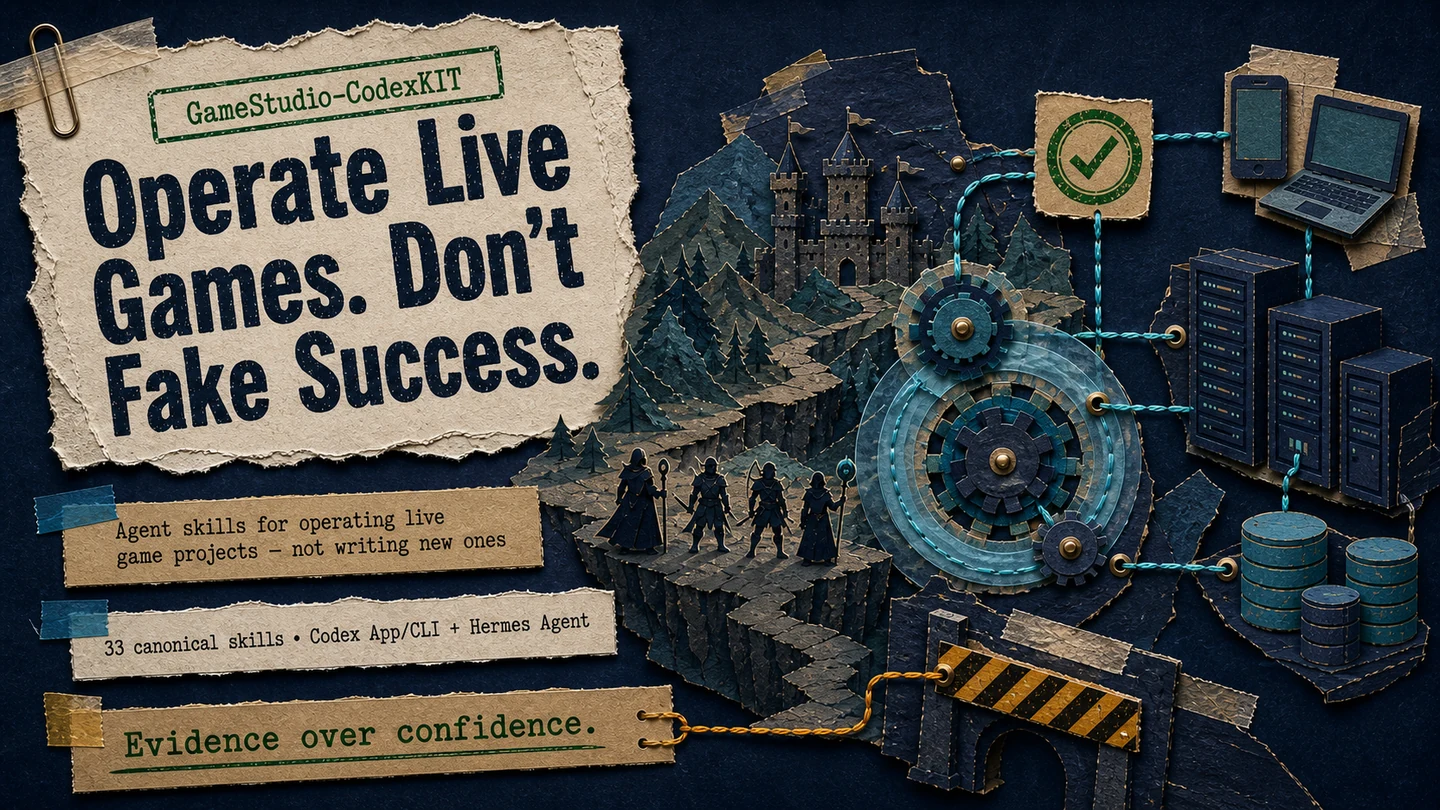
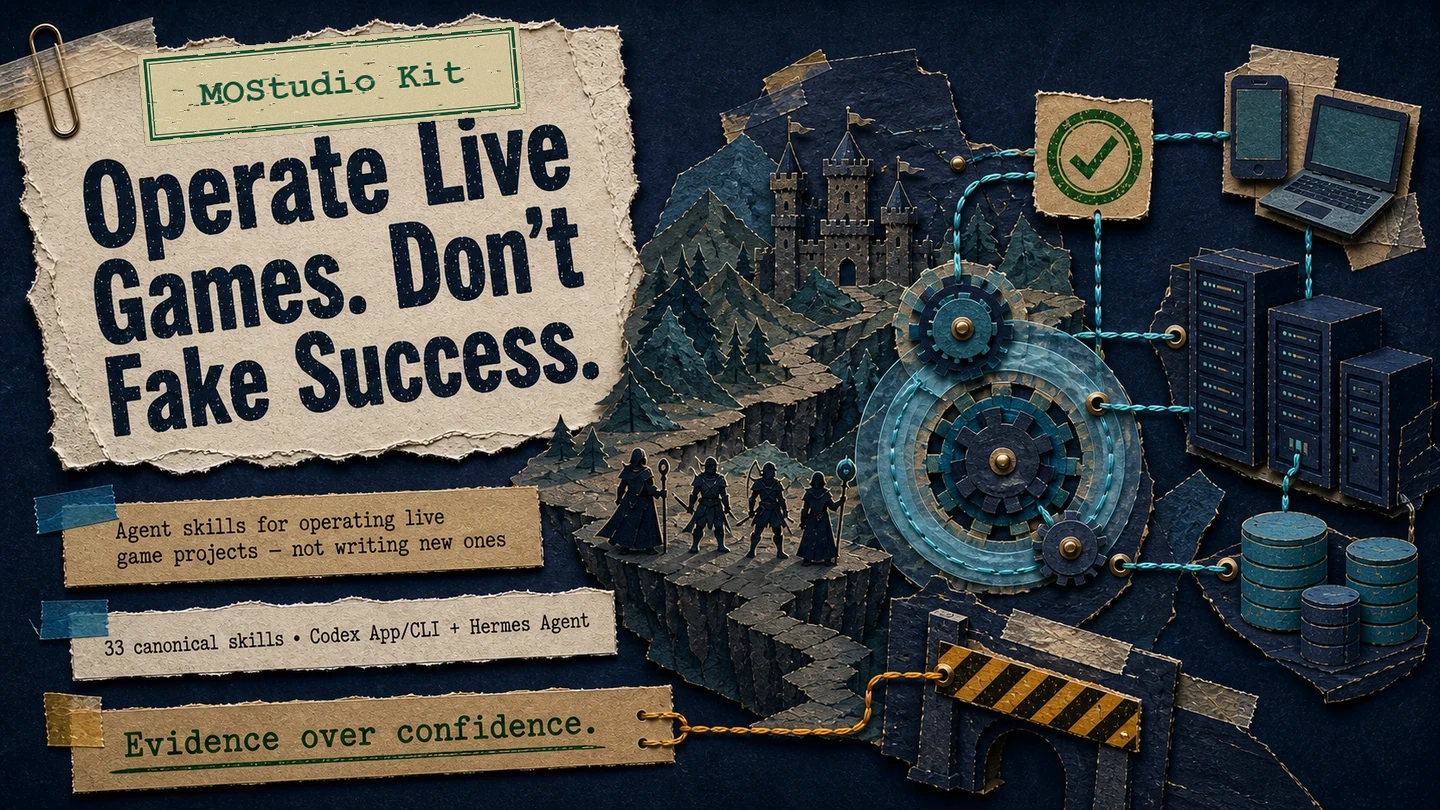
Rename display name to MOStudio Kit, bump version
Change the user-facing display name from "GameStudio Codex Kit" to "MOStudio Kit" across plugin metadata, README, website, docs, and SVG/banner assets. Add a naming contract clarifying the repository and plugin ID remain stable (GameStudio-CodexKIT / game-studio-codex-kit). Bump package/plugin version to 1.5.2 in .codex-plugin/plugin.json and pyproject.toml. Update marketplace.json, landing page image, and tests/fixtures to expect the new display strings. Binary showcase slide updated. Tests adjusted to assert new title/displayName and version.

Changed region(s): [[0.0938, 0.0309, 0.375, 0.1852]]

diff --git a/docs/index.html b/docs/index.html
@@ -4,22 +4,22 @@
   <meta charset="utf-8">
   <meta name="viewport" content="width=device-width, initial-scale=1">
   <meta name="theme-color" content="#08111f">
-  <meta name="description" content="GameStudio-CodexKIT — evidence-first agent skills for operating live Unity, C++, Lua, MMORPG, release, and liveops projects.">
+  <meta name="description" content="MOStudio Kit — evidence-first agent skills for operating live Unity, C++, Lua, MMORPG, release, and liveops projects.">
   <meta property="og:type" content="website">
-  <meta property="og:title" content="GameStudio-CodexKIT — Operate live games">
+  <meta property="og:title" content="MOStudio Kit — Operate live games">
   <meta property="og:description" content="A routed skill catalog for fragile, shipped, revenue-bearing game projects. Evidence over confidence.">
   <meta property="og:url" content="https://hoatv2211.github.io/GameStudio-CodexKIT/">
   <meta property="og:image" content="https://hoatv2211.github.io/GameStudio-CodexKIT/assets/showcase-handcrafted/slide-01.webp">
   <meta property="og:image:type" content="image/webp">
   <meta property="og:image:width" content="1440">
   <meta property="og:image:height" content="810">
-  <meta property="og:image:alt" content="GameStudio-CodexKIT connects live game projects to specialist workflows and evidence-backed results.">
+  <meta property="og:image:alt" content="MOStudio Kit connects live game projects to specialist workflows and evidence-backed results.">
   <meta name="twitter:card" content="summary_large_image">
   <meta name="twitter:image" content="https://hoatv2211.github.io/GameStudio-CodexKIT/assets/showcase-handcrafted/slide-01.webp">
-  <meta name="twitter:image:alt" content="GameStudio-CodexKIT connects live game projects to specialist workflows and evidence-backed results.">
+  <meta name="twitter:image:alt" content="MOStudio Kit connects live game projects to specialist workflows and evidence-backed results.">
   <link rel="canonical" href="https://hoatv2211.github.io/GameStudio-CodexKIT/">
   <link rel="icon" href="assets/banner.svg" type="image/svg+xml">
-  <title>GameStudio-CodexKIT · Operate live games</title>
+  <title>MOStudio Kit · Operate live games</title>
   <style>
     :root {
       --bg: #08111f;
@@ -358,11 +358,11 @@
   <a class="skip-link" href="#main">Skip to content</a>
   <header class="site-header">
     <div class="container nav" id="nav">
-      <a class="brand" href="#top" aria-label="GameStudio-CodexKIT home">
+      <a class="brand" href="#top" aria-label="MOStudio Kit home">
         <span class="brand-mark" aria-hidden="true">
           <svg viewBox="0 0 24 24" width="20" height="20" fill="none"><path d="M5 8.2 12 4l7 4.2v7.6L12 20l-7-4.2V8.2Z" stroke="currentColor" stroke-width="1.35"/><path d="M12 4v16M5 8.2l7 4.1 7-4.1" stroke="currentColor" stroke-width="1.1" opacity=".55"/></svg>
         </span>
-        <span class="brand-name">GameStudio<span class="brand-dim">-CodexKIT</span></span>
+        <span class="brand-name">MOStudio<span class="brand-dim"> Kit</span></span>
       </a>
       <nav class="nav-links" aria-label="Primary navigation">
         <a href="#lifecycle">Lifecycle</a>
@@ -384,7 +384,7 @@
         <div class="reveal">
           <span class="eyebrow">Open-source game operations kit</span>
           <h1>Keep shipped games <span class="accent">alive.</span></h1>
-          <p class="hero-lede">GameStudio-CodexKIT gives Codex and Hermes an evidence-first operating layer for <strong>fragile, live, revenue-bearing game projects</strong> — from Unity clients and C++ servers to Lua contracts, player saves, release gates, and liveops incidents.</p>
+          <p class="hero-lede">MOStudio Kit gives Codex and Hermes an evidence-first operating layer for <strong>fragile, live, revenue-bearing game projects</strong> — from Unity clients and C++ servers to Lua contracts, player saves, release gates, and liveops incidents.</p>
           <div class="hero-actions">
             <a class="button button-primary" href="#install">Install the kit <span aria-hidden="true">↓</span></a>
             <a class="button" href="#catalog">Explore 47 skills <span aria-hidden="true">→</span></a>
@@ -550,7 +550,7 @@
     <section class="section install-section" id="install">
       <div class="container">
         <div class="install-panel reveal">
-          <div><span class="eyebrow">Start with one command</span><h2>Install once.<br>Ask for the outcome.</h2><p>Choose your primary runtime, start a new session, and describe the studio problem directly.</p></div>
+          <div><span class="eyebrow">Start with one command</span><h2>Install once.<br>Ask for the outcome.</h2><p>Choose your primary runtime, install MOStudio Kit from the stable <code>GameStudio-CodexKIT</code> repository, and describe the studio problem directly.</p></div>
           <div class="commands">
             <div class="command"><span class="command-label">Hermes</span><code>npx skills add hoatv2211/GameStudio-CodexKIT -a hermes-agent -g -y</code><button class="copy-button" type="button" aria-label="Copy Hermes install command" data-copy="npx skills add hoatv2211/GameStudio-CodexKIT -a hermes-agent -g -y">⧉</button></div>
             <div class="command"><span class="command-label">Codex</span><code>codex plugin marketplace add hoatv2211/GameStudio-CodexKIT</code><button class="copy-button" type="button" aria-label="Copy Codex install command" data-copy="codex plugin marketplace add hoatv2211/GameStudio-CodexKIT">⧉</button></div>
@@ -563,7 +563,7 @@
 
   <footer>
     <div class="container footer-inner">
-      <span>GameStudio-CodexKIT · MIT licensed · Evidence over confidence.</span>
+      <span>MOStudio Kit · MIT licensed · Evidence over confidence.</span>
       <nav class="footer-links" aria-label="Footer navigation"><a href="https://github.com/hoatv2211/GameStudio-CodexKIT" target="_blank" rel="noopener">Repository ↗</a><a href="https://github.com/hoatv2211/GameStudio-CodexKIT#readme">README</a><a href="https://github.com/hoatv2211/GameStudio-CodexKIT/blob/main/docs/architecture/overview.md">Architecture</a><a href="https://github.com/hoatv2211/GameStudio-CodexKIT/blob/main/docs/authoring/dogfood.md">Dogfood contract</a></nav>
     </div>
   </footer>

diff --git a/tests/packaging/test_codex_plugin.py b/tests/packaging/test_codex_plugin.py
@@ -32,6 +32,10 @@ class CodexPluginPackagingTests(unittest.TestCase):
         self.assertIn(f"{agent_count} AGENTS", banner)
         self.assertIn(f"{pack_count} PACKS", banner)
         self.assertIn(f"ROUTING {routing.passed}/{routing.total}", banner)
+        self.assertIn("MOStudio Kit", banner)
+        self.assertIn("<title>MOStudio Kit · Operate live games</title>", landing)
+        self.assertIn("# MOStudio Kit", readme)
+        self.assertIn("`GameStudio-CodexKIT` repository", readme)
         self.assertIn(f">{skill_count}</span><span class=\"stat-label\">canonical skills", landing)
         self.assertIn(f">{agent_count}</span><span class=\"stat-label\">canonical agents", landing)
         self.assertIn(f">{pack_count}</span><span class=\"stat-label\">installable packs", landing)
@@ -43,7 +47,7 @@ class CodexPluginPackagingTests(unittest.TestCase):
         manifest = json.loads(manifest_path.read_text(encoding="utf-8"))
 
         self.assertEqual(PLUGIN_NAME, manifest["name"])
-        self.assertEqual("1.5.1", manifest["version"])
+        self.assertEqual("1.5.2", manifest["version"])
         self.assertEqual("./skills/", manifest["skills"])
         self.assertEqual(REPOSITORY_URL.removesuffix(".git"), manifest["repository"])
         self.assertEqual("MIT", manifest["license"])
@@ -51,7 +55,7 @@ class CodexPluginPackagingTests(unittest.TestCase):
         self.assertTrue(manifest["author"]["name"])
 
         interface = manifest["interface"]
-        self.assertEqual("GameStudio Codex Kit", interface["displayName"])
+        self.assertEqual("MOStudio Kit", interface["displayName"])
         self.assertEqual("HoaTV Studio", interface["developerName"])
         self.assertLessEqual(len(interface["defaultPrompt"]), 3)
         for prompt in interface["defaultPrompt"]:
@@ -74,7 +78,7 @@ class CodexPluginPackagingTests(unittest.TestCase):
         marketplace = json.loads(marketplace_path.read_text(encoding="utf-8"))
 
         self.assertEqual(MARKETPLACE_NAME, marketplace["name"])
-        self.assertEqual("GameStudio Codex Kit", marketplace["interface"]["displayName"])
+        self.assertEqual("MOStudio Kit", marketplace["interface"]["displayName"])
         self.assertEqual(1, len(marketplace["plugins"]))
 
         entry = marketplace["plugins"][0]

diff --git a/tests/_meta/support.py b/tests/_meta/support.py
@@ -224,7 +224,7 @@ def write_plugin_package(root: Path) -> None:
                 "license": "MIT",
                 "skills": "./skills/",
                 "interface": {
-                    "displayName": "GameStudio Codex Kit",
+                    "displayName": "MOStudio Kit",
                     "developerName": "Fixture",
                     "category": "Productivity",
                 },

diff --git a/README.md b/README.md
@@ -1,10 +1,12 @@
 <p align="center">
-  <img src="docs/assets/banner.svg" alt="GameStudio-CodexKIT — Agent skills for operating live game projects" width="100%">
+  <img src="docs/assets/banner.svg" alt="MOStudio Kit — Agent skills for operating live game projects" width="100%">
 </p>
 
-# GameStudio-CodexKIT
+# MOStudio Kit
 
 **Agent skills for operating live game projects — not writing new ones.**
+
+MOStudio Kit is distributed from the `GameStudio-CodexKIT` repository. Repository URLs, install commands, and the stable plugin ID `game-studio-codex-kit` intentionally keep that technical name.
 
 [![Skills](https://img.shields.io/badge/skills-47%20canonical-brightgreen)](skills/) [![Routing](https://img.shields.io/badge/routing%20eval-276%2F276-blue)](evals/routing/) [![Tests](https://img.shields.io/badge/unittest-test%20suite-informational)](tests/) [![License](https://img.shields.io/badge/license-MIT-blue)](LICENSE)
 
@@ -26,7 +28,7 @@ That last line is the point. Every claim carries one of four labels — `Verifie
 The kit connects a live game, its studio stack, and its operating evidence into one routed workflow. No dashboard theater: every page below maps to a real contract in the catalog.
 
 <p align="center">
-  <img src="docs/assets/showcase-handcrafted/slide-01.webp" alt="GameStudio-CodexKIT operates live games with evidence instead of faking success" width="100%">
+  <img src="docs/assets/showcase-handcrafted/slide-01.webp" alt="MOStudio Kit operates live games with evidence instead of faking success" width="100%">
 </p>
 
 <table>
@@ -60,13 +62,13 @@ The kit connects a live game, its studio stack, and its operating evidence into 
   <summary><strong>Install paths — Codex App/CLI and Hermes Agent</strong></summary>
   <br>
   <p align="center">
-    <img src="docs/assets/showcase-handcrafted/slide-08.webp" alt="Install GameStudio-CodexKIT in Codex or Hermes Agent" width="100%">
+    <img src="docs/assets/showcase-handcrafted/slide-08.webp" alt="Install MOStudio Kit in Codex or Hermes Agent" width="100%">
   </p>
 </details>
 
 ## Why this kit is different
 
-| | Typical skill packs | GameStudio-CodexKIT |
+| | Typical skill packs | MOStudio Kit |
 |---|---|---|
 | Target | Writing new code | Operating a live, fragile, revenue-bearing game |
 | Failure mode | Agent claims success | `BLOCKED` verdicts + PASS requires command, exit code, artifact |
@@ -95,7 +97,7 @@ Choose one primary runtime. A repository clone is not required for normal use.
 
 | Runtime | Install |
 |---|---|
-| Codex App/CLI | `codex plugin marketplace add hoatv2211/GameStudio-CodexKIT`, then install **GameStudio Codex Kit** from `/plugins` or the App Plugins UI |
+| Codex App/CLI | `codex plugin marketplace add hoatv2211/GameStudio-CodexKIT`, then install **MOStudio Kit** from `/plugins` or the App Plugins UI |
 | Hermes Agent | `npx skills add hoatv2211/GameStudio-CodexKIT -a hermes-agent -g -y` |
 
 Start a new Codex or Hermes session after installation, then ask for the outcome directly. The root router selects the smallest matching studio workflow.
@@ -127,9 +129,9 @@ codex plugin marketplace add hoatv2211/GameStudio-CodexKIT
 codex
 ```
 
-In the Codex CLI session, enter `/plugins`, select the **GameStudio Codex Kit** marketplace, open **GameStudio Codex Kit**, and install it. Start a new CLI session before using the bundled skills.
+In the Codex CLI session, enter `/plugins`, select the **MOStudio Kit** marketplace, open **MOStudio Kit**, and install it. Start a new CLI session before using the bundled skills.
 
-In the ChatGPT desktop app, open **Plugins** from Codex, select the **GameStudio Codex Kit** marketplace, install the plugin, and start a new task. Ask for the outcome directly or invoke the plugin with `@game-studio-codex-kit` when you want an explicit route.
+In the ChatGPT desktop app, open **Plugins** from Codex, select the **MOStudio Kit** marketplace, install the plugin, and start a new task. Ask for the outcome directly or invoke the plugin with `@game-studio-codex-kit` when you want an explicit route.
 
 Example first request:
 

diff --git a/docs/architecture/project-init-and-studio-expansion.md b/docs/architecture/project-init-and-studio-expansion.md
@@ -6,7 +6,7 @@ Approved for implementation on 2026-08-18.
 
 ## Goal
 
-Add a safe, reversible project-adoption interface for GameStudio-CodexKIT, optionally enhanced by CodeGraph, while expanding the canonical catalog with the highest-value production, content, QA, analytics, and live-operations capabilities missing from a full game studio.
+Add a safe, reversible project-adoption interface for MOStudio Kit, optionally enhanced by CodeGraph, while expanding the canonical catalog with the highest-value production, content, QA, analytics, and live-operations capabilities missing from a full game studio.
 
 ## Decisions
 
@@ -57,7 +57,7 @@ When complexity is HIGH and CodeGraph is unavailable, an interactive run offers 
 
 ## CodeGraph Ownership
 
-An existing `.codegraph/` directory is user-owned. A CodeGraph index created after an approved external plan remains CodeGraph-owned; GameStudio-CodexKIT records provenance but does not include the database in its owned-file deletion set. Core init succeeds when CodeGraph is missing, stale, broken, or disabled.
+An existing `.codegraph/` directory is user-owned. A CodeGraph index created after an approved external plan remains CodeGraph-owned; MOStudio Kit records provenance but does not include the database in its owned-file deletion set. Core init succeeds when CodeGraph is missing, stale, broken, or disabled.
 
 The adapter consumes structured `codegraph status --json` output. Tests use a fake runner and never download, install, initialize, or remove CodeGraph.
 

diff --git a/docs/case-studies/unity-mmorpg-global-localization.md b/docs/case-studies/unity-mmorpg-global-localization.md
@@ -6,7 +6,7 @@ Names below are lightly sanitized; every number, command shape, exit code, and v
 
 ## Why this case matters
 
-This is the exact scenario GameStudio-CodexKIT is built for: an agent asked to "review and fix all mixed-Chinese text and UI to English" on a **live game project** where the naive approach — grep for Han characters and bulk-replace — would corrupt generated files, break placeholder contracts, fight other agent sessions for file ownership, and produce a confident "done!" with no proof.
+This is the exact scenario MOStudio Kit is built for: an agent asked to "review and fix all mixed-Chinese text and UI to English" on a **live game project** where the naive approach — grep for Han characters and bulk-replace — would corrupt generated files, break placeholder contracts, fight other agent sessions for file ownership, and produce a confident "done!" with no proof.
 
 Instead, the task was forced through skill routing, evidence labels, risk gates, and lock ownership. The result: real fixes with verifiable artifacts, honest `BLOCKED` verdicts where verification was impossible, and zero collateral damage across ~10 concurrent session lock namespaces.
 

diff --git a/docs/architecture/overview.md b/docs/architecture/overview.md
@@ -8,6 +8,10 @@ Active authority flows from `AGENTS.md` to registries, canonical skills, and mai
 
 The catalog contains 47 canonical skills across seven additive packs: `studio-core`, `unity`, `cpp-lua-mmorpg`, `production-design-liveops`, `production-management`, `content-production`, and `product-analytics`. Shared skills may appear in more than one pack without duplicating canonical source text. The registry also defines 22 canonical agent roles. `.codex-plugin/plugin.json` exposes the canonical skill catalog directly.
 
+## Naming contract
+
+`MOStudio Kit` is the public display name used in plugin interfaces, landing pages, banners, screenshots, and user-facing installation guidance. `GameStudio-CodexKIT` remains the source repository name and therefore stays unchanged in repository URLs, GitHub Pages paths, install commands, source-repository maintenance instructions, stable adapter identifiers, and historical or provenance records. The plugin ID `game-studio-codex-kit` is also stable and is not derived from the display name.
+
 ## Layers
 
 1. Policy: evidence, mutation, ownership, archive, and handoff contracts in `AGENTS.md`.
